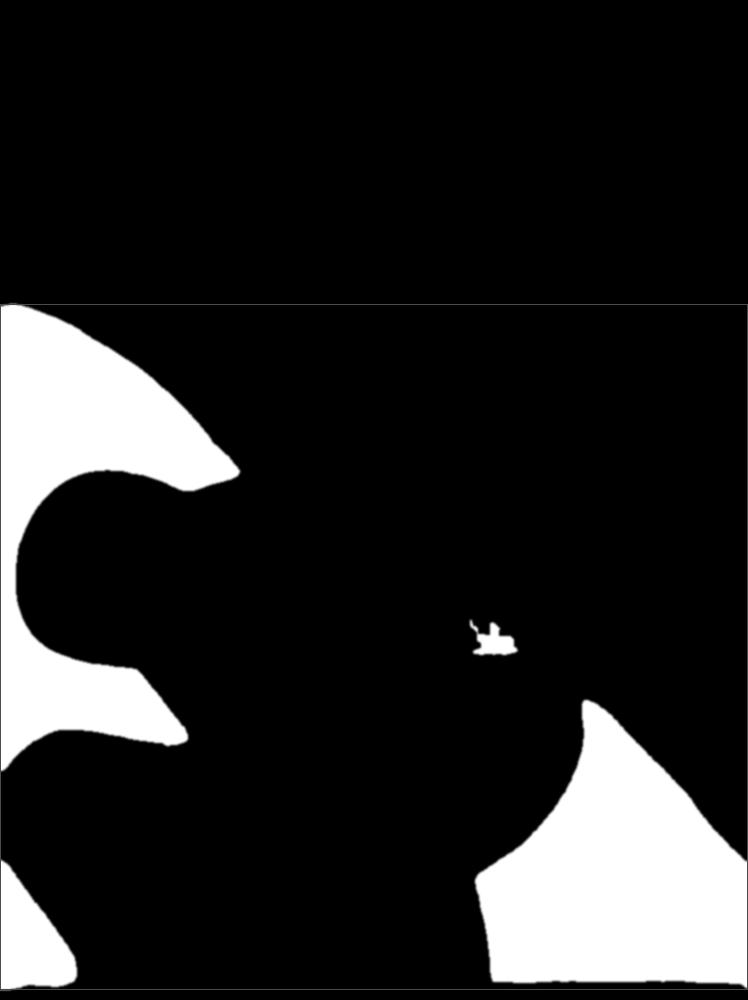
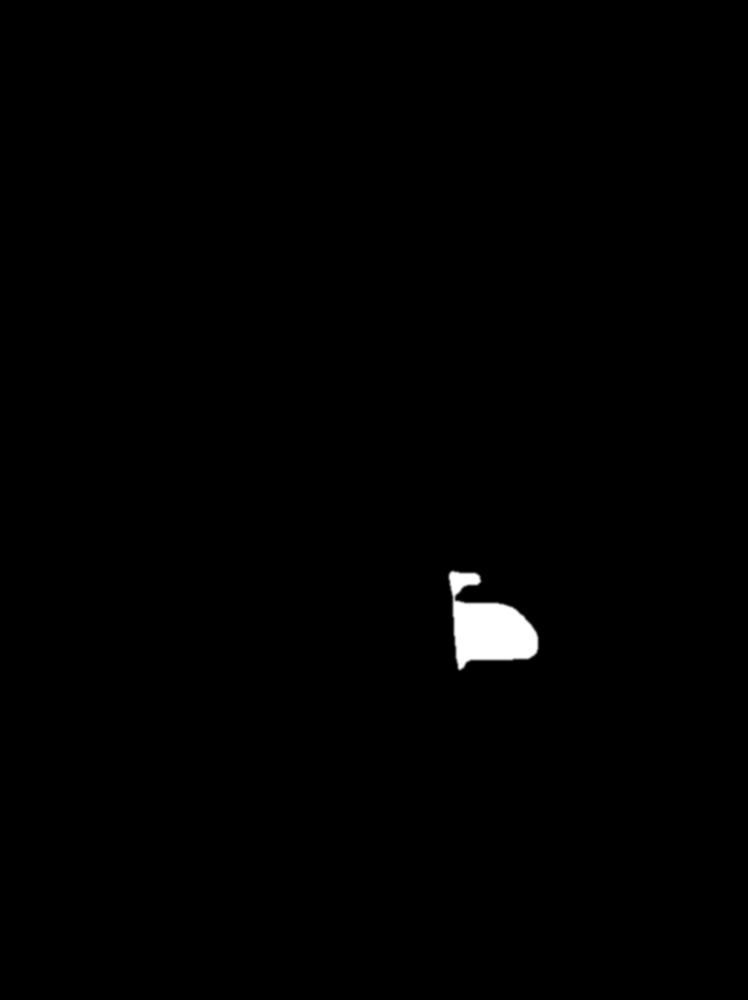
feat: added logic for generating background mask, adapt to sota model

diff --git a/test.py b/test.py
@@ -7,15 +7,21 @@ from panoseg import PanopticSegmenter
 
 
 # Define paths and configurations
-conf_files = ["/home/axton/axton-workspace/csc2125/models/openseed/configs/openseed/openseed_swint_lang.yaml"]
-weight_path = "/home/axton/axton-workspace/csc2125/model_weights/openseed_weights/model_state_dict_swint_51.2ap.pt"  # Path to model weights
+# conf_files = ["/home/axton/axton-workspace/csc2125/models/openseed/configs/openseed/openseed_swint_lang.yaml"]
+# weight_path = "/home/axton/axton-workspace/csc2125/model_weights/openseed_weights/model_state_dict_swint_51.2ap.pt"  # Path to model weights
+
+conf_files = ["/home/axton/axton-workspace/csc2125/models/openseed/configs/openseed/openseed_swinl_lang_decouple.yaml"]
+weight_path = "/home/axton/axton-workspace/csc2125/model_weights/openseed_weights/openseed_swinl_pano_sota.pt"
 
 thing_classes = ["person","bicycle","car","motorcycle","airplane","bus","train","truck","boat","traffic light","fire hydrant","street sign","stop sign","parking meter","bench","bird","cat","dog","horse","sheep","cow","elephant","bear","zebra","giraffe","hat","backpack","umbrella","shoe","eye glasses","handbag","tie","suitcase","frisbee","skis","snowboard","sports ball","kite","baseball bat","baseball glove","skateboard","surfboard","tennis racket","bottle","plate","wine glass","cup","fork","knife","spoon","bowl","banana","apple","sandwich","orange","broccoli","carrot","hot dog","pizza","donut","cake","chair","couch","potted plant","bed","mirror","dining table","window","desk","toilet","door","tv","laptop","mouse","remote","keyboard","cell phone","microwave","oven","toaster","sink","refrigerator","blender","book","clock","vase","scissors","teddy bear","hair drier","toothbrush","hair brush"]
 stuff_classes = ["banner","blanket","branch","bridge","building-other","bush","cabinet","cage","cardboard","carpet","ceiling-other","ceiling-tile","cloth","clothes","clouds","counter","cupboard","curtain","desk-stuff","dirt","door-stuff","fence","floor-marble","floor-other","floor-stone","floor-tile","floor-wood","flower","fogiew","food-other","fruit","furniture-other","grass","gravel","ground-other","hill","house","leaves","light","matiew","metal","mirror-stuff","moss","mountain","mudiew","napkin","netiew","paper","pavement","pillow","plant-other","plastic","platform","playingfield","railing","railroad","river","road","rock","roof","rugiew","salad","sand","seaiew","shelf","sky-other","skyscraper","snow","solid-other","stairs","stone","straw","structural-other","table","tent","textile-other","towel","tree","vegetable","wall-brick","wall-concrete","wall-other","wall-panel","wall-stone","wall-tile","wall-wood","water-other","waterdrops","window-blind","window-other","wood"]
 
+# thing_classes = ["person","bicycle","car","motorcycle","airplane","bus","train","truck","boat","traffic light","fire hydrant","street sign","stop sign","parking meter","bench","bird","cat","dog","horse","sheep","cow","elephant","bear","zebra","giraffe","hat","backpack","umbrella","shoe","eye glasses","handbag","tie","suitcase","frisbee","skis","snowboard","sports ball","kite","baseball bat","baseball glove","skateboard","surfboard","tennis racket","bottle","plate","wine glass","cup","fork","knife","spoon","bowl","banana","apple","sandwich","orange","broccoli","carrot","hot dog","pizza","donut","cake","chair","couch","potted plant","bed","mirror","dining table","window","desk","toilet","door","tv","laptop","mouse","remote","keyboard","cell phone","microwave","oven","toaster","sink","refrigerator","blender","book","clock","vase","scissors","teddy bear","hair drier","toothbrush","hair brush", "banner","blanket","branch","bridge","building-other","bush","cabinet","cage","cardboard","carpet","ceiling-other","ceiling-tile","cloth","clothes","clouds","counter","cupboard","curtain","desk-stuff","dirt","door-stuff","fence","floor-marble","floor-other","floor-stone","floor-tile","floor-wood","flower","fogiew","food-other","fruit","furniture-other","grass","gravel","ground-other","hill","house","leaves","light","matiew","metal","mirror-stuff","moss","mountain","mudiew","napkin","netiew","paper","pavement","pillow","plant-other","plastic","platform","playingfield","railing","railroad","river","road","rock","roof","rugiew","salad","sand","seaiew","shelf","sky-other","skyscraper","snow","solid-other","stairs","stone","straw","structural-other","table","tent","textile-other","towel","tree","vegetable","wall-brick","wall-concrete","wall-other","wall-panel","wall-stone","wall-tile","wall-wood","water-other","waterdrops","window-blind","window-other","wood"]
+# stuff_classes = []
 
 # user_dir = "/optional/user/directory"  # Optional user directory
 image_path = "/home/axton/axton-workspace/csc2125/models/openseed/images/test.png"  # Path to the input image
+# image_path = "/home/axton/axton-workspace/test1.png"
 output_path = "/home/axton/axton-workspace/csc2125/models/openseed/output_tmp"  # Path to the output directory
 
 # Instantiate the PanopticSegmenter

diff --git a/panoseg.py b/panoseg.py
@@ -78,6 +78,7 @@ class PanopticSegmenter:
         # Smooth the edges
         smoothed = cv2.GaussianBlur(closed, (5, 5), 0)
         return smoothed
+        
 
     def run_inference(self, image_path, output_path):
         os.makedirs(output_path, exist_ok=True)
@@ -115,6 +116,7 @@ class PanopticSegmenter:
         category_counts = {}
         segmentation_metadata = {}
 
+        masks = []
         for obj in pano_seg_info:
             # Determine category name and create folder if not exists
             category_id = obj['category_id']
@@ -129,6 +131,10 @@ class PanopticSegmenter:
             # Generate mask and bounding box
             mask = (pano_seg.cpu().numpy() == obj['id']).astype(np.uint8) * 255
             processed_mask = self._post_process_mask(mask)
+            
+            # save this object's mask for further generating the background mask
+            masks.append(processed_mask)
+            
             object_count = category_counts.get(category_name, 0) + 1
             category_counts[category_name] = object_count
 
@@ -148,14 +154,8 @@ class PanopticSegmenter:
                 "mask_path": mask_output_path
             }
             
-            mask_image = Image.fromarray(processed_mask)
-            
-            # draw bbox on the mask for evaluation correctness
-            # draw = ImageDraw.Draw(mask_image)
-            # draw.rectangle(bbox, outline='red')
-            
             # save the mask
-            mask_image.save(mask_output_path)
+            Image.fromarray(processed_mask).save(mask_output_path)
             logger.info(f"Saved mask for {category_name} to {mask_output_path}")
             print(f"Saved mask for {category_name} to {mask_output_path}")
 
@@ -165,6 +165,16 @@ class PanopticSegmenter:
             json.dump(segmentation_metadata, json_file, indent=4)
         logger.info(f"Saved segmentation metadata to {json_output_path}")
         print(f"Saved segmentation metadata to {json_output_path}")
+        
+        # generate a mask for the background
+        background_mask = np.zeros((image_ori.height, image_ori.width), dtype=np.uint8)
+        for mask in masks:
+            background_mask[mask > 0] = 255
+        # then inverse all areas that are not masked
+        background_mask = 255 - background_mask
+        background_mask_output_path = os.path.join(output_path, 'background_mask.png')
+        Image.fromarray(background_mask).save(background_mask_output_path)
+        print(f"Saved background mask to {background_mask_output_path}")
 
         # generate a full masked image with all the masks colored, if no mask is found then use the first color ("unlabeled")
         full_mask = np.zeros((image_ori.height, image_ori.width, 3), dtype=np.uint8)
@@ -180,22 +190,10 @@ class PanopticSegmenter:
             
             full_mask[processed_mask > 0] = color
         
-        print(len(self.thing_classes))
-        print(len(self.stuff_classes))
-        
-        # check if there are any parts of the image that are not labeled
-        # for all unlabeled parts, color them with the first color
-        # 
-        # full_mask[full_mask.sum(axis=2) == 0] = colors[91]
-        
-            
-        
         full_mask_output_path = os.path.join(output_path, 'full_mask.png')
         Image.fromarray(full_mask).save(full_mask_output_path)
         logger.info(f"Saved full mask to {full_mask_output_path}")
-        
-        
-        
+            
 def uint82bin(n, count=8):
     """returns the binary of integer n, count refers to amount of bits"""
     return ''.join([str((n >> y) & 1) for y in range(count - 1, -1, -1)])
